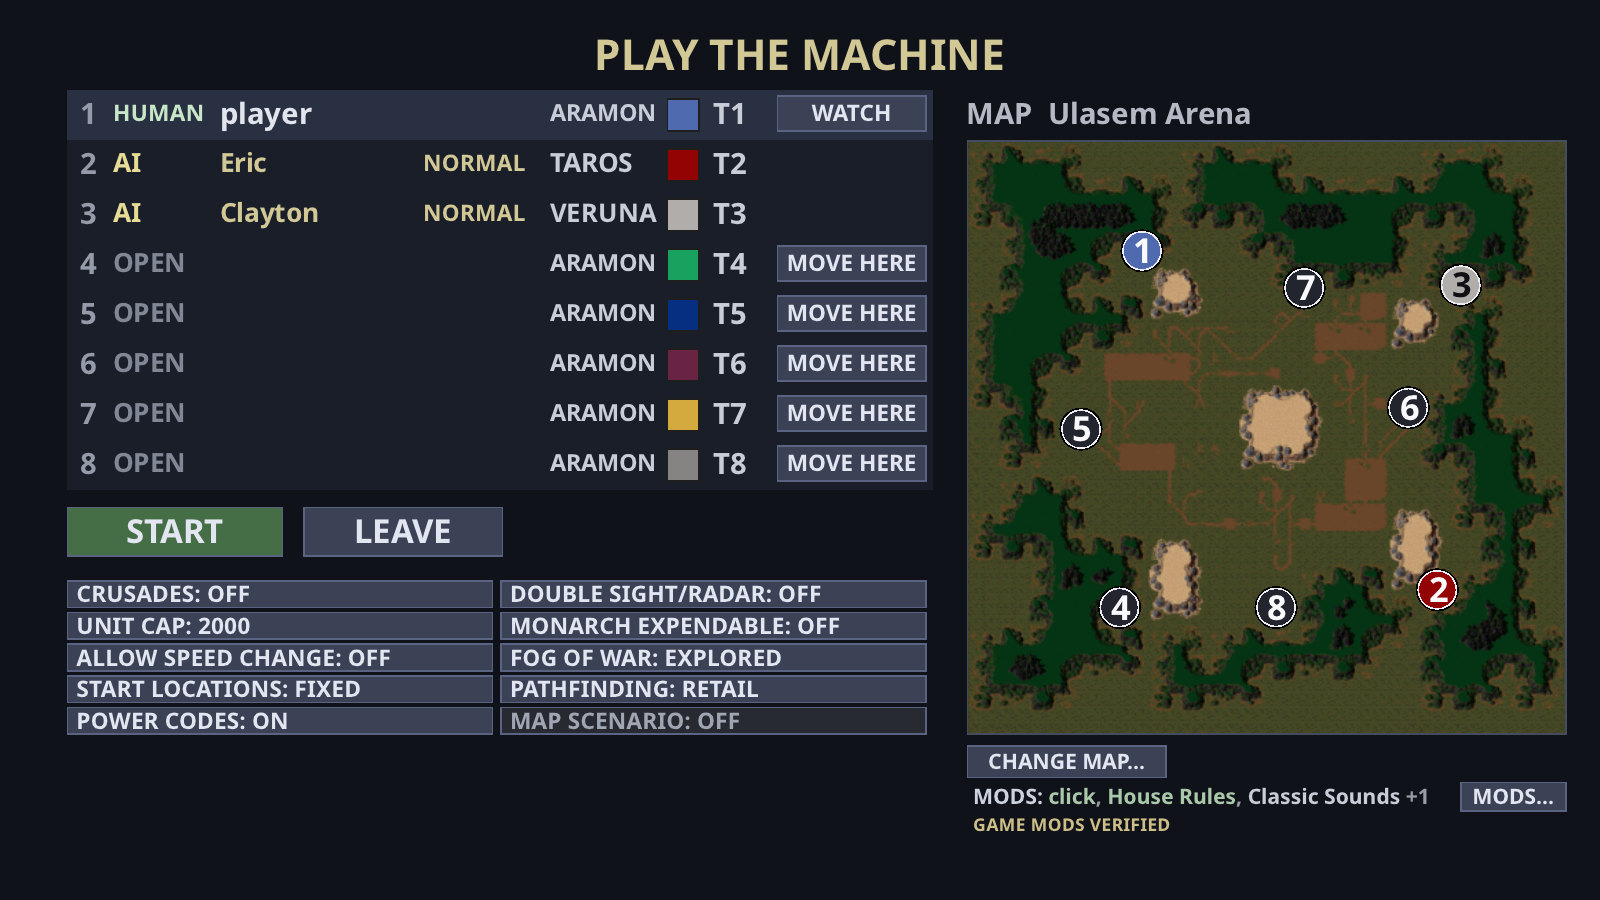
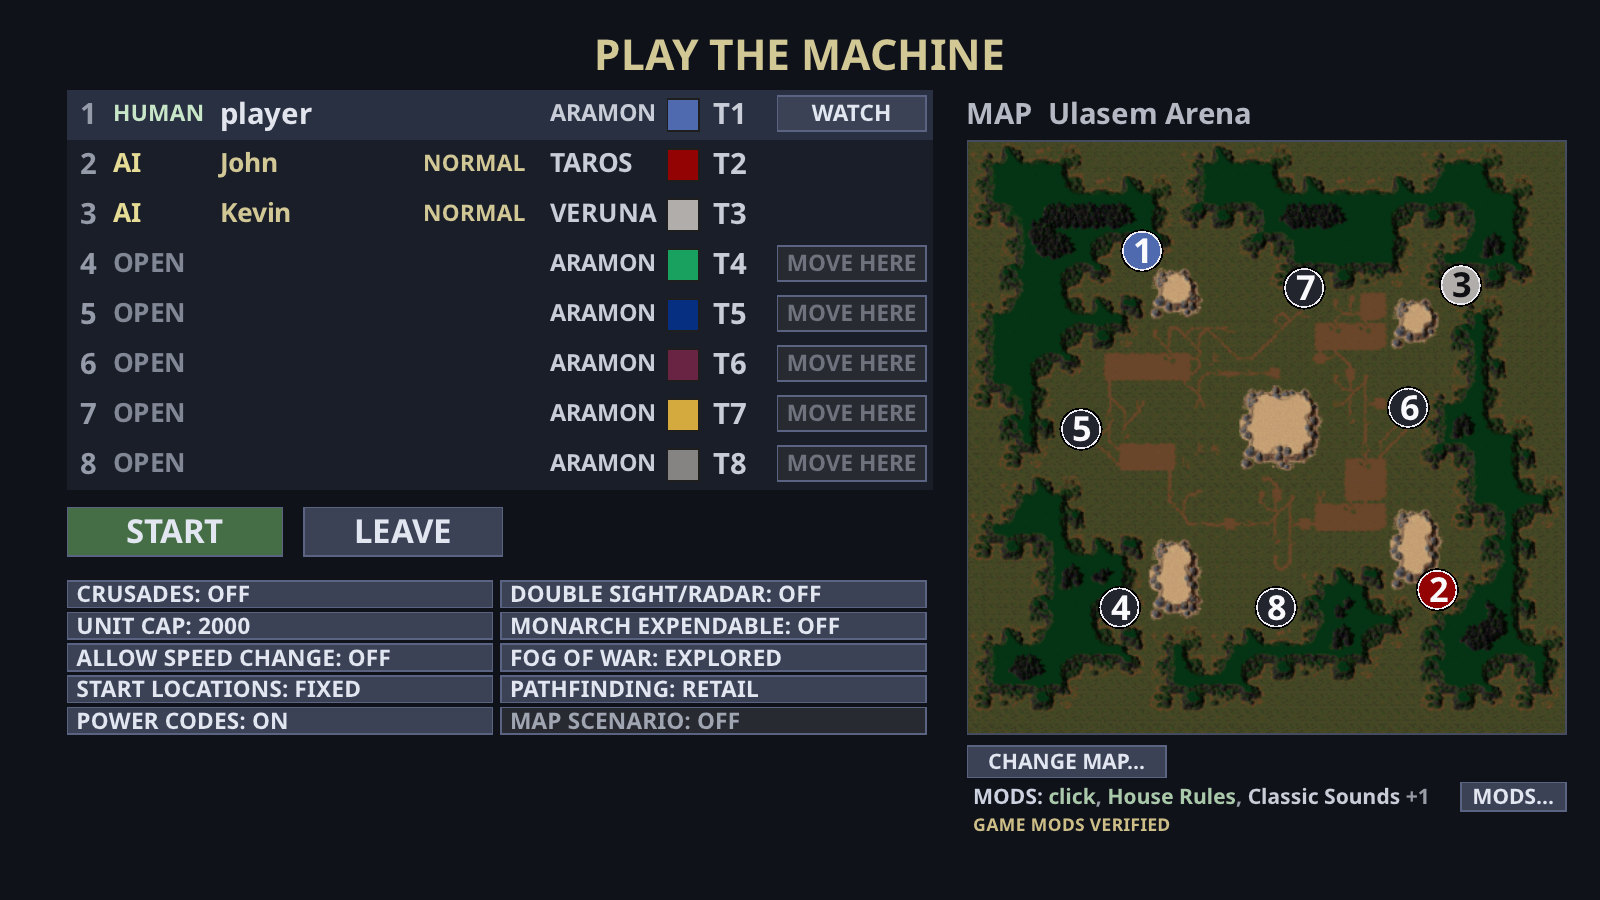
Game room: MOVE HERE is greyed unless the seat picks the start
With START LOCATIONS: FIXED or RANDOM a seat does not pick a start (the
occupied seats take the map's starts in order, or by the shuffle), so a
move never lit the start marker of the seat moved to. MOVE HERE is now
live only with BY SLOT, where slot N starts at position N, and in a
scenario whose seats have their own armies or rules. Greyed, it says
ONLY WITH START LOCATIONS: BY SLOT beside it while the pointer is on it.

Client only: the server still takes Msg::MoveSeat, no protocol change.
Guides updated; room.jpg, room-mods-power-codes.jpg and
lobby-move-here.jpg retaken.

Claude-Session: https://claude.ai/code/session_01DLiMWrKYHUMBLp8Vqt4ANr

Changed region(s): [[0.4688, 0.2489, 0.5938, 0.56], [0.125, 0.2178, 0.2188, 0.2489], [0.125, 0.1556, 0.1875, 0.1867]]

diff --git a/src/client/gameview_room.cpp b/src/client/gameview_room.cpp
@@ -462,6 +462,13 @@ void seedChosen(tak::net::GameOptions& chosen, bool& set, const tak::net::RoomVi
                                                      size_t(startCount), tak::sim::StartMode::BySlot);
             }
         }
+        // MOVE HERE is live only where a seat decides where, or as whom, its player starts:
+        // under BY SLOT (slot N opens at the map's start N), and in a scenario whose seats
+        // have armies or rules of their own. Under FIXED and RANDOM a seat picks no start
+        // (the occupied seats take the starts in order, or by the match's shuffle), so the
+        // button is greyed and says what would light it while the pointer is on it.
+        const bool seatPicks = tak::net::normalizeStartMode(room.opts.randomStarts) == tak::net::kStartsBySlot || needSeats != 0;
+        SDL_FRect moveTipAt{};   // the greyed MOVE HERE under the pointer, if any
         // slot table
         const char* typeName[4] = {"OPEN", "HUMAN", "AI", "CLOSED"};
         // Each column's start in the row: type, name, AI level, side, colour, team, READY.
@@ -579,15 +586,17 @@ void seedChosen(tak::net::GameOptions& chosen, bool& set, const tak::net::RoomVi
             if (host && s.type == 1 && !mine) {
                 lbBtn(x + row.w - 54, y + 3, 50, 22, "KICK", edit, [this, i] { mp_->kick(i); });
             }
-            // Any seated player may take an OPEN seat (Msg::MoveSeat): the seat is the
-            // start under BY SLOT, and the order under FIXED. Open seats are always
-            // inside the map's capacity (the server closes the rest). Not in a campaign
-            // mission, whose seats are given.
+            // Any seated player may take an OPEN seat (Msg::MoveSeat) where the seat picks
+            // the start (seatPicks, above). Open seats are always inside the map's capacity
+            // (the server closes the rest). Not in a campaign mission, whose seats are given.
             // The seat buttons share MOVE HERE's label size.
             const float seatPx = tak::uiTextFitPx("MOVE HERE", kBtnLabelPx, 90 - 12.0f);
-            if (room.mission.empty() && room.mySlot >= 0 && s.type == 0)
-                lbBtn(x + row.w - 94, y + 3, 90, 22, "MOVE HERE", !host || edit, [this, i] { mp_->moveSeat(i); },
-                      {60, 66, 86, 255}, seatPx);
+            if (room.mission.empty() && room.mySlot >= 0 && s.type == 0) {
+                const SDL_FRect move{x + row.w - 94, y + 3, 90, 22};
+                lbBtn(move.x, move.y, move.w, move.h, "MOVE HERE", seatPicks && (!host || edit),
+                      [this, i] { mp_->moveSeat(i); }, {60, 66, 86, 255}, seatPx);
+                if (!seatPicks && lbHot(move)) moveTipAt = move;
+            }
             // Single player: WATCH on the host's own row leaves the seat to watch the AIs;
             // while watching, SIT HERE on an OPEN or AI row takes that seat back.
             if (singlePlayer_ && mine && host && room.mission.empty() && !room.opts.benchmark)
@@ -595,6 +604,15 @@ void seedChosen(tak::net::GameOptions& chosen, bool& set, const tak::net::RoomVi
             if (watching && (s.type == 0 || s.type == 2) && i < room.capacity)
                 lbBtn(x + row.w - 94, y + 3, 90, 22, "SIT HERE", edit, [this, i] { roomSitHere(i); }, {60, 66, 86, 255}, seatPx);
             y += 30;   // slot row pitch: 8 rows must leave room for the option toggles below
+        }
+        if (moveTipAt.w > 0) {   // beside the greyed button, inside its own row
+            const char* tip = "ONLY WITH START LOCATIONS: BY SLOT";
+            constexpr float kTipPx = 1.3f;
+            const float tw = blockWidth(tip, kTipPx) + 12;
+            const SDL_FRect box{moveTipAt.x - 4 - tw, moveTipAt.y, tw, moveTipAt.h};
+            SDL_SetRenderDrawColor(ren_, 12, 14, 20, 240); SDL_RenderFillRectF(ren_, &box);
+            SDL_SetRenderDrawColor(ren_, 90, 100, 130, 255); SDL_RenderDrawRectF(ren_, &box);
+            blockText(tip, box.x + 6, box.y + (box.h - 7 * kTipPx) / 2, kTipPx, {225, 215, 160, 255});
         }
     }
 

diff --git a/docs/user-guide.md b/docs/user-guide.md
@@ -314,10 +314,11 @@ setting says, and any allies and opponents play on.
    The room's map numbers each start position and colours it for the player who
    starts there. With **Random** start locations the markers stay dark, because
    nobody knows who starts where until the game begins.
-   To start somewhere else, click **Move here** on an open slot: you take that
-   slot with your side, colour and team, and your old slot opens. With **By slot**
-   start locations slot N starts at position N, so this picks your start; with
-   **Fixed** it changes your place in the order.
+   To pick your own start, set **Start locations** to **By slot**: slot N then
+   starts at position N, and **Move here** on an open slot takes that slot with
+   your side, colour and team (your old slot opens). With **Fixed** and **Random**
+   a slot does not pick a start, so **Move here** is greyed; pointing at it says
+   *ONLY WITH START LOCATIONS: BY SLOT*.
 5. Set each other slot to an AI, choose its side and **difficulty**, or close
    the slot. **Easy** is a good first opponent.
 6. Click **Start**.
@@ -351,7 +352,7 @@ before. Everyone else sees them as plain text. A button that another option deci
 | **Double Sight/Radar** | Doubles every unit's sight and radar range in skirmish and multiplayer. Weapon range is unchanged, and campaign missions are never affected. |
 | **Monarch Expendable** | **Off** (the original rule): losing your Monarch loses the game. **On**: the Monarch is an ordinary unit and you lose only when everything is gone. |
 | **Fog of war** | **Not Explored**: the map starts hidden. **Explored**: the map starts revealed, under the mist, and enemies are hidden outside your sight. **Full Vision**: no fog. Terrain you have seen stays visible under the mist after your units leave; enemy units outside your current sight are not shown and cannot be targeted. See [Fog of war](#fog-of-war). |
-| **Start locations** | **Fixed** gives the occupied slots the map's start positions in order, top slot first. Empty slots are skipped, as in the original game: a player in slot 1 and an AI in slot 8 start at positions 1 and 2. **Random** shuffles them. **By slot** always starts slot N at the map's position N, empty slots or not: slots 1 and 8 start at positions 1 and 8. It is not in the original game. In the room, a player picks a slot, and so a start, with **Move here**. A room normally opens one slot per position; a slot without a position of its own takes the lowest position that no occupied slot has by number, or a spot near the map centre, and the room shows which under the player's name. |
+| **Start locations** | **Fixed** gives the occupied slots the map's start positions in order, top slot first. Empty slots are skipped, as in the original game: a player in slot 1 and an AI in slot 8 start at positions 1 and 2. **Random** shuffles them. **By slot** always starts slot N at the map's position N, empty slots or not: slots 1 and 8 start at positions 1 and 8. It is not in the original game. With it, a player picks a slot, and so a start, with **Move here**; with **Fixed** and **Random** that button is greyed, because a slot picks no start there. A room normally opens one slot per position; a slot without a position of its own takes the lowest position that no occupied slot has by number, or a spot near the map centre, and the room shows which under the player's name. |
 | **Unit cap** | The most units each player may have alive: 250, 500, 1,000 or 2,000 (the default and the most the game allows). Production pauses at the cap. |
 | **Allow speed change** | Lets the host change game speed during the match, from −9 (0.1×) to +10 (2×). |
 | **Pathfinding** | **Retail** (the default) or **Legion**. Campaigns always use Retail. See [Pathfinding](#pathfinding-retail-and-legion). |
@@ -2335,8 +2336,9 @@ host's game mods are sent automatically.
    you click the game. A game marked **LIVE** has started; **WATCH** spectates it
    (see [Spectating](#spectating)).
 5. In the room, choose your side, colour and team, then click **Ready**. The host
-   starts the game when everyone is ready. To take a different seat, click
-   **Move here** on any open slot (see [Start locations](#match-options)).
+   starts the game when everyone is ready. With **By slot** start locations,
+   **Move here** on an open slot takes that seat and its start (see
+   [Start locations](#match-options)).
    **Leave** takes you back to the game browser.
 
 **The host's changes clear Ready.** If the host changes the map, a rule, the game
@@ -2366,11 +2368,11 @@ again.
 
 *The game browser on a server.*
 
-![A single-player game room: you in slot 1 with a WATCH button, Normal AIs for Taros, Veruna and Zhon in slots 2 to 4, MOVE HERE on the open slots 5 to 8, START and LEAVE, the match rules as buttons with CRUSADES: ON, DOUBLE SIGHT/RADAR: ON and PATHFINDING: LEGION, and at the right the map with start markers 1 to 4 in the seated players' colours, CHANGE MAP... under it and the MODS line with the MODS... button](img/room.jpg)
+![A single-player game room: you in slot 1 with a WATCH button, Normal AIs for Taros, Veruna and Zhon in slots 2 to 4, MOVE HERE greyed on the open slots 5 to 8 (START LOCATIONS: FIXED), START and LEAVE, the match rules as buttons with CRUSADES: ON, DOUBLE SIGHT/RADAR: ON and PATHFINDING: LEGION, and at the right the map with start markers 1 to 4 in the seated players' colours, CHANGE MAP... under it and the MODS line with the MODS... button](img/room.jpg)
 
-*A game room, here for a single-player game: player and AI slots, **Move here** on the open slots, the match rules, the map with each start marked in the colour of the player who starts there, **Change map...** and the mods.*
+*A game room, here for a single-player game: player and AI slots, **Move here** on the open slots (greyed unless start locations are **By slot**), the match rules, the map with each start marked in the colour of the player who starts there, **Change map...** and the mods.*
 
-The host can open and close empty slots, add AIs and kick players (a slot with a player in it cannot be turned into an AI or closed; kick the player first). Any seated player, the host included, can move to an open slot with **Move here** until the game starts; closed, AI and taken slots cannot be moved to, and campaign missions keep their seats. The host
+The host can open and close empty slots, add AIs and kick players (a slot with a player in it cannot be turned into an AI or closed; kick the player first). With **By slot** start locations, or in a scenario game whose seats have their own armies, any seated player, the host included, can move to an open slot with **Move here** until the game starts; closed, AI and taken slots cannot be moved to, and campaign missions keep their seats. With **Fixed** or **Random** start locations the button is greyed. The host
 also picks the map (**Change map...**) and sets every match option in the room
 until the game starts; the rules light up under the host's pointer, and for
 everyone else they are read-only. See [Match options](#match-options). A

diff --git a/docs/img/README.md b/docs/img/README.md
@@ -601,7 +601,7 @@ simulation code. Every scene runs the normal game rules, AI and renderer.
 | `generated.jpg` | Generated Aramon Riverlands map "Silverford" (generator version 10, seed 13, 512 × 512 cells, four players, Scattered Mana Medium, Plateaus 96, Mountains 48, Towns 64). Four AIs, eleven game minutes in. Spectator view of the lake shore at 1×, with an AI's lodestone on a neutral scattered mana spot among standing stones and a plateau rim at the lower left. Rendered by the 0.9.24 build (see "Retaken for 0.9.24") |
 | `lobby.jpg` | The CHANGE MAP panel over a single-player room, opened with **CHANGE MAP...** in a room whose remembered map is Ulasem Arena: the EXISTING MAP tab, the list sorted by name with Ulasem Arena selected and scrolled into view (the title from the map's translate table), the preview numbering the map's eight start positions above 20 X 20 8 PLAYER, MAP SCENARIO: OFF greyed (THIS MAP HAS NO SCENARIO), CANCEL and PICK; the room's slots and rules dimmed at the left. Rendered by the `lobby/int` debug build (2026-11-10), 1600 × 900 (see *Lobby captures* below) |
 | `lobby-scenario.jpg` | The CHANGE MAP panel over a single-player room on King of the Hill, with the panel's **MAP SCENARIO** clicked ON: the gold **S** marks the maps with a playable scenario in the list, the lines under the button say what the scenario changes (UNITS PLACED FOR 1-4, NEEDS SEATS 1-4, BUILDS 6 UNIT TYPES, ENDS BY SCENARIO RULES), and the preview numbers the four start positions. 1600 × 900 scaled to 1280 × 720; CHANGE MAP... and the button were clicked with `TAK_SHOT_CLICKS`, then the pointer moved off the panel. Rendered by the `lobby/int` debug build (2026-11-10). Used only by the user guide |
-| `room.jpg` | Single-player room on Ulasem Arena, opened by the PLAY THE MACHINE door from remembered settings with Crusades, Double Sight and Legion pathfinding on and both example cosmetic packs ticked (placeholder folders in the scratch install). Three Normal AIs seated by `TAK_ROOM_SCRIPT`, their sides clicked to Taros, Veruna and Zhon (the AI names are the room's own random picks). The host's row has **WATCH**, the open rows 5 to 8 each have **MOVE HERE**, the match rules are buttons under START and LEAVE (MAP SCENARIO: OFF greyed: the map has no scenario), the map at the top of the right column marks starts 1 to 4 in the colours of the four seated players, and under it are **CHANGE MAP...** and the MODS line (click, Alternate Cursors +1) with **MODS...**. Rendered by the `lobby/int` debug build (2026-11-10), 1600 × 900 |
+| `room.jpg` | Single-player room on Ulasem Arena, opened by the PLAY THE MACHINE door from remembered settings with Crusades, Double Sight and Legion pathfinding on and both example cosmetic packs ticked (placeholder folders in the scratch install). Three Normal AIs seated by `TAK_ROOM_SCRIPT`, their sides clicked to Taros, Veruna and Zhon (the AI names are the room's own random picks). The host's row has **WATCH**, the open rows 5 to 8 each have **MOVE HERE**, greyed because START LOCATIONS is FIXED (retaken 2026-11-10 for that), the match rules are buttons under START and LEAVE (MAP SCENARIO: OFF greyed: the map has no scenario), the map at the top of the right column marks starts 1 to 4 in the colours of the four seated players, and under it are **CHANGE MAP...** and the MODS line (click, Alternate Cursors +1) with **MODS...**. Rendered by the `lobby/int` debug build (2026-11-10), 1600 × 900 |
 | `campaign.jpg` | Book of Darien campaign picker with a fresh profile, chapter 1. The CHAPTER heading and numeral are retail lettering; the chapter title and the always-on mods note (click, the always-enabled pack folder, in dark ink on the parchment) are in the UI font. No Opponent AI line: missions always play the Retail AI. Rendered by the 0.9.0 build, 1600 × 1000, with `TAK_SHOT_CAMPAIGN=0` |
 | `streaming.jpg` | Retaken for 0.9.17 (Options-scale layout). Streaming setup with no key or broadcast: a large centred YOUTUBE STREAMING title, KEY NOT SET with **Paste**, the **Remember Key** row (off; the Secret Service is available), resolution, frame rate 60, bitrate 6000 Kbps with **Recommended**, encoder Automatic, the **Save a Local Copy** row (off, the default; MP4 IN THE VIDEOS FOLDER), Start Streaming, the status OFF with its counters, and **Back** at the bottom right. Rendered by the 0.9.17 build at 1600 × 1000 (`TAK_SHOT_STREAM=1`), not cropped, with the debug `TAK_CREDSTORE=test` store so no real key could appear |
 | `diplomacy.jpg` | Built-in input-test fixture (the debug `TAK_DIPLOMACY_TEST` harness, `--testbuild`) after gifting, 1600 × 1000, in a profile with voice chat on (capture-only hooks: the fixture keeps a voice engine that is on, so the sliders draw live, and its CHAT and VOICE columns are set as a game starts). CHAT and VOICE tick you and ALLY only (your own VOICE box greyed); ENEMY and DEFEATED are unticked; the SPECTATORS line's boxes are off. VOLUME has sliders for the two other humans, left by the fixture at 50% (ALLY) and 25% (DEFEATED), and none for the computer player (ENEMY). Retaken for 0.9.22 |
@@ -821,7 +821,7 @@ screen (see the top of this file).
 | `command-panel.jpg` | A Mage Builder's command panel at 200%, labelled MOVE (M), PATROL (P), ATTACK (A), GUARD (G), HEAL (H), CLEAR and STOP (S). Which icon is which was checked by arming each key and seeing which button darkened (0.8.7) |
 | `build-placement.jpg` | **Spawned** Mage Builder selected, its build menu along the bottom, the Barracks icon chosen and the Barracks ghost with its label under the pointer. 80% |
 | `build-line.jpg` | Two Shift-drag wall lines by Elsin, side by side: left, a tight diagonal of ten walls corner to corner (`TAK_BUILDLINE_SHOT=300,220,0`); right, a straight line of five walls three cells apart with the **GAP 3** label (`TAK_BUILDLINE_SHOT=360,0,3`). `--testbuild`, 1280 × 960, hardware cursor on; the same crop of each, joined and scaled to 85% |
-| `lobby-move-here.jpg` | Single-player room opened from the menu with the default map (Athri Cay), retaken by the `lobby/int` debug build (2026-11-10), 1600 × 900: the player in slot 1 with WATCH, a Normal AI in slot 2 (seated by `TAK_ROOM_SCRIPT`), MOVE HERE on open slots 3 to 5, slots 6 to 8 closed, the match rules, the preview numbering starts 1 to 5, CHANGE MAP... and MODS: NONE (no packs in the scratch install). Cropped to (40, 80, 1580, 830), 72% |
+| `lobby-move-here.jpg` | Single-player room opened from the menu with the default map (Athri Cay), retaken by the `lobby/int` debug build (2026-11-10), 1600 × 900: the player in slot 1 with WATCH, a Normal AI in slot 2 (seated by `TAK_ROOM_SCRIPT`, which also sets START LOCATIONS: BY SLOT with `opt:randomStarts=2` so MOVE HERE is live), MOVE HERE on open slots 3 to 5, slots 6 to 8 closed, the match rules, the preview numbering starts 1 to 5, CHANGE MAP... and MODS: NONE (no packs in the scratch install). Cropped to (40, 80, 1580, 830), 72% |
 
 ## Capture settings
 

diff --git a/docs/quick-start.md b/docs/quick-start.md
@@ -305,14 +305,14 @@ More in the user guide's [Power codes](user-guide.md#power-codes).
 | Left-click a setting | Next choice. Right-click: previous choice. The host's rules are the buttons under the slots. |
 | A slot's type (host) | OPEN → AI → CLOSED. |
 | **CHANGE MAP...** (host) | Pick another map, or make a random one, in a panel over the room; **PICK** plays it, **CANCEL** keeps the room's. |
-| **MOVE HERE** | Take that open slot, keeping your side, colour and team; your old slot opens. With *Start Locations: By Slot*, slot N starts at position N. |
+| **MOVE HERE** | With *Start Locations: By Slot* (slot N starts at position N): take that open slot, keeping your side, colour and team; your old slot opens. Greyed with *Fixed* and *Random*, where a slot does not pick a start. |
 | **WATCH** (single player) | Leave your slot and watch the AIs; **SIT HERE** on a slot plays again. |
 | **READY** (multiplayer) | Mark yourself ready; the host can START when everyone is. A change by the host clears it. |
 | Name and password boxes (multiplayer host) | Rename the game or lock it; **Enter** keeps the change. |
 
-![A single-player room: you in slot 1 with WATCH, a Normal AI in slot 2, MOVE HERE buttons on open slots 3 to 5, the match rules, and the map with numbered starts and CHANGE MAP... under it](img/quick/lobby-move-here.jpg)
+![A single-player room with START LOCATIONS: BY SLOT: you in slot 1 with WATCH, a Normal AI in slot 2, MOVE HERE buttons on open slots 3 to 5, the match rules, and the map with numbered starts and CHANGE MAP... under it](img/quick/lobby-move-here.jpg)
 
-*A single-player room: **MOVE HERE** on each open slot, **CHANGE MAP...** under the map.*
+*A single-player room with **Start Locations: By Slot**: **MOVE HERE** on each open slot, **CHANGE MAP...** under the map.*
 
 For everything else (economy, sides, Legion pathfinding, multiplayer, voice
 chat), see the [user guide](user-guide.md).

diff --git a/docs/cartographer-guide.md b/docs/cartographer-guide.md
@@ -2312,10 +2312,11 @@ Start Cartographer from its shortcut and choose **Recover**. See
   in a seat that has no units does nothing. The lobby warns about such a seat
   (*NO PLACED UNITS: PLAYER N*).
 - **You start in seat 1, but can move.** The player who opens the game room takes
-  seat 1, and players who join take the lowest open seat. In the lobby of an
-  ordinary game, any seated player (the host too) can press **MOVE HERE** on an
-  open seat to take it; the seat moves with the player's side, colour, team and
-  ready state. Moving is refused once the game is running and in campaign
+  seat 1, and players who join take the lowest open seat. In the room of a
+  scenario game whose seats have units or rules of their own, any seated player
+  (the host too) can press **MOVE HERE** on an open seat to take it; the seat
+  moves with the player's side, colour, team and ready state. (In an ordinary
+  game the button is live only with **Start locations: By slot**.) Moving is refused once the game is running and in campaign
   missions. Close the seats your scenario does not need before
   others join, so that they land in seats that have units.
 - **No height brush.** Heights come with terrain sections; there is no tool for

diff --git a/README.md b/README.md
@@ -76,7 +76,7 @@ Details in the [CHANGELOG](CHANGELOG.md#0924).
     </td>
   </tr>
   <tr>
-    <td width="50%"><a href="docs/img/room.jpg"><img src="docs/img/room.jpg" alt="Game room with AI slots, MOVE HERE buttons on the open slots, start markers in the players' colours and the mods summary"></a><br><sub>A game room: seats, start positions and mods</sub>
+    <td width="50%"><a href="docs/img/room.jpg"><img src="docs/img/room.jpg" alt="Game room with AI slots, greyed MOVE HERE buttons on the open slots, start markers in the players' colours and the mods summary"></a><br><sub>A game room: seats, start positions and mods</sub>
     </td>
     <td width="50%"><a href="docs/img/campaign.jpg"><img src="docs/img/campaign.jpg" alt="The Book of Darien campaign book"></a><br><sub>The campaign book</sub>
     </td>
